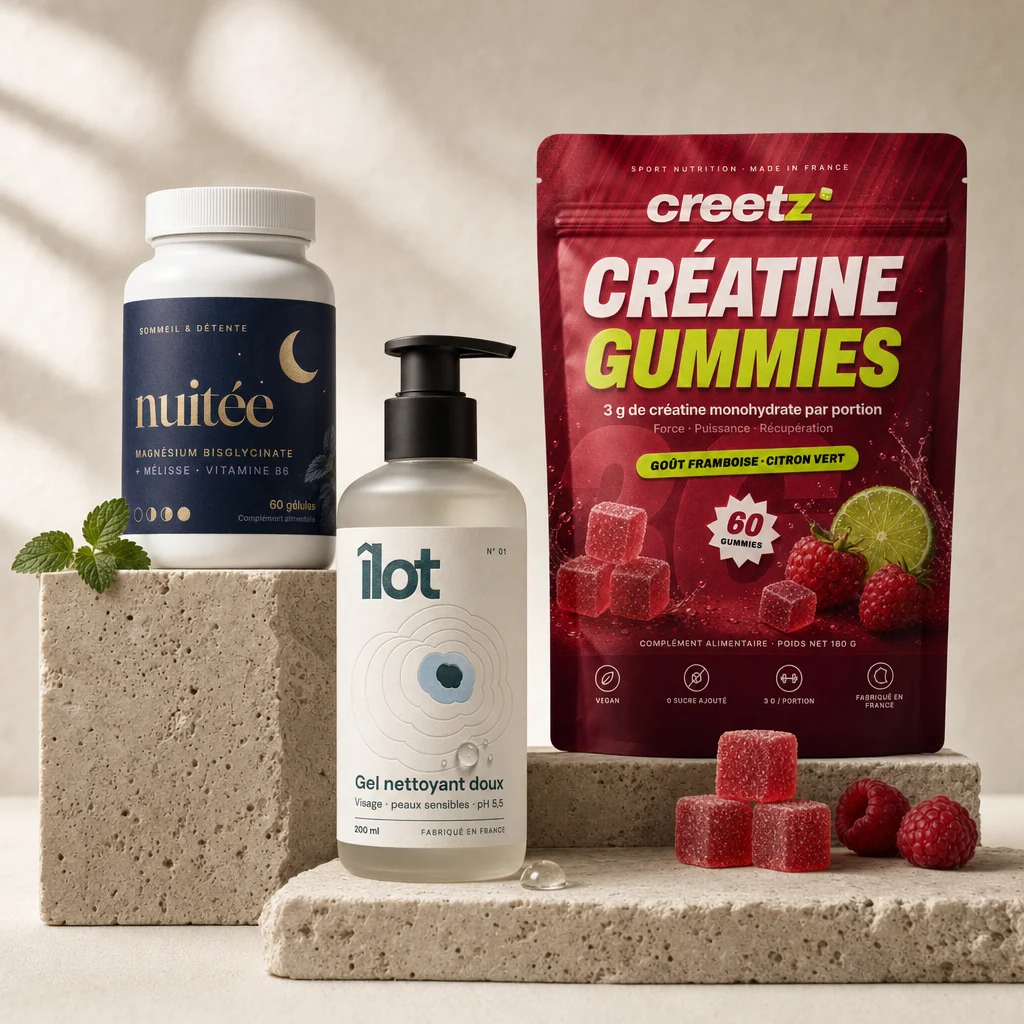
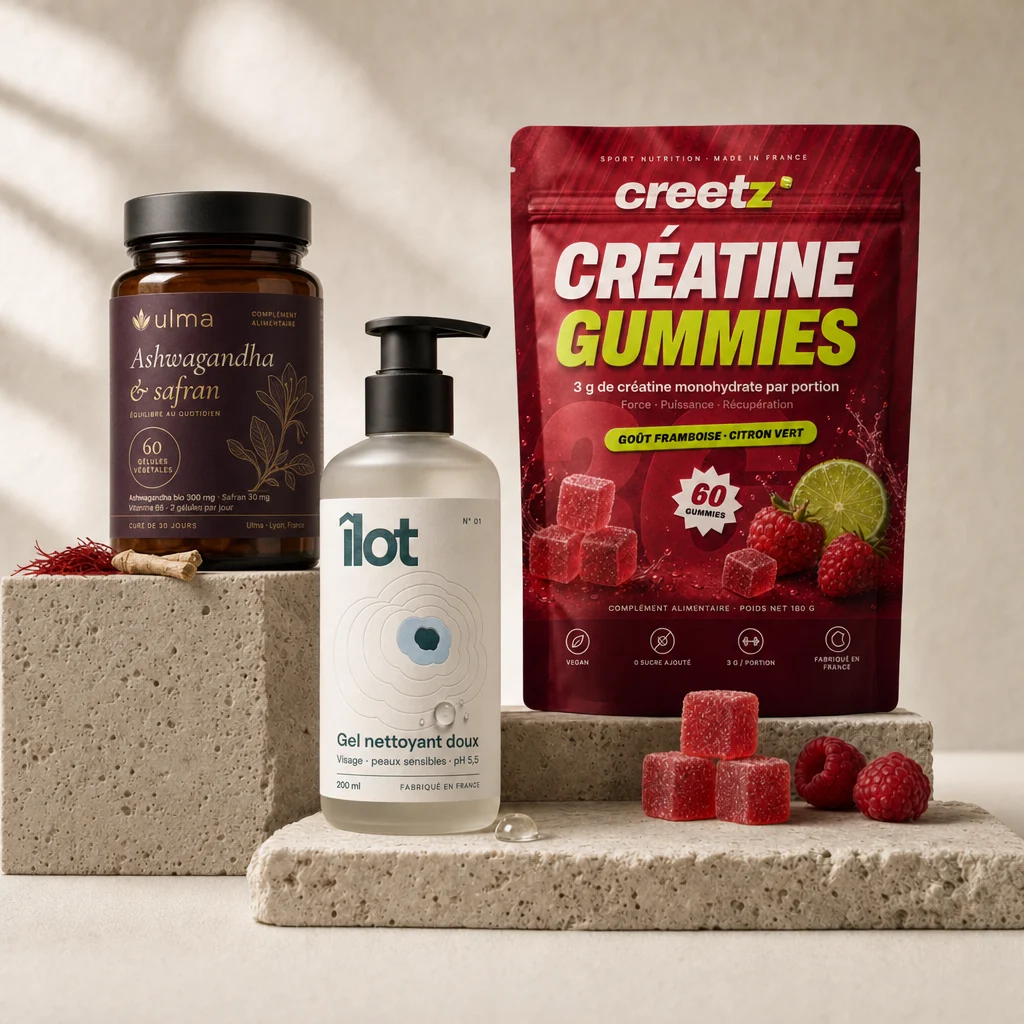
Nouvelles marques : Ulma, Orsa, Gaïo, Tamaro en 3D, Hivra, Holm, Malto, Kaïro
Chaque design n'apparaît plus qu'une fois sur le site (seule exception :
Creetz, dans le hero et la section précision).
- Hero : Ulma remplace Nuitée (déjà dans la tuile 04 des bénéfices).
- Carrousel : Orsa et Gaïo remplacent Siléa et Nocta, avec des personnes.
- Vitrine 3D : doypack Tamaro ; teinte du sachet réglable (data-teinte).
- Réalisations : Hivra, Holm, Malto et Kaïro en face et dos.
- Images remplacées retirées.

diff --git a/index.html b/index.html
@@ -22,7 +22,7 @@
   <link rel="preconnect" href="https://fonts.gstatic.com" crossorigin>
   <link href="https://fonts.googleapis.com/css2?family=Inter:opsz,wght@14..32,400..700&family=Archivo:ital,wdth,wght@0,62..125,500..900;1,62..125,500..900&display=swap" rel="stylesheet">
   <link rel="stylesheet" href="assets/css/site.css?v=202611281425">
-  <link rel="stylesheet" href="assets/css/accueil.css?v=202611281700">
+  <link rel="stylesheet" href="assets/css/accueil.css?v=202611281255">
   <link rel="stylesheet" href="assets/css/precision.css?v=202611281100">
   <script type="importmap">
     { "imports": {
@@ -70,8 +70,8 @@
     </div>
 
     <div class="scene">
-      <!-- Projets concept Lably (étiquettes dessinées en vectoriel, mise en scène générée). -->
-      <img class="scene-photo" src="assets/img/hero-marques.webp?v=202611271600" width="1024" height="1024" alt="Trois packagings conçus par le studio : le pilulier Nuitée, le flacon pompe Îlot et le sachet Creetz, posés sur des blocs de travertin avec des gummies, des framboises et de la mélisse" fetchpriority="high">
+      <!-- Projets du studio (étiquettes dessinées en vectoriel, mise en scène générée) : Ulma, Îlot, Creetz. -->
+      <img class="scene-photo" src="assets/img/hero-marques.webp?v=202611281200" width="1024" height="1024" alt="Trois packagings conçus par le studio : le pilulier ambré Ulma, le flacon pompe Îlot et le sachet Creetz, posés sur des blocs de travertin avec des filaments de safran, des gummies et des framboises" fetchpriority="high">
 
       <div class="bulle bulle-1">
         <div><strong>Fichier imprimeur ✓</strong><span>CMJN · fonds perdus 3 mm</span></div>
@@ -90,12 +90,12 @@
     <div class="carrousel-rail">
       <ul class="carrousel-liste">
         <li class="carte-projet"><img src="assets/img/carrousel/oktan.webp" width="507" height="760" alt="Pots de whey OKTAN sur un bloc de béton, avec des éclats de chocolat" decoding="async"><div class="carte-legende"><strong>OKTAN</strong><span>Compléments</span></div></li>
-        <li class="carte-projet"><img src="assets/img/carrousel/silea.webp" width="507" height="760" alt="Étuis du sérum Siléa et flacon compte-gouttes ambré" decoding="async"><div class="carte-legende"><strong>Siléa</strong><span>Cosmétiques</span></div></li>
-        <li class="carte-projet"><img src="assets/img/carrousel/nocta.webp" width="507" height="760" alt="Canettes de cold brew Nocta bleu nuit, illustration de lune" decoding="async"><div class="carte-legende"><strong>Nocta</strong><span>Café</span></div></li>
-        <li class="carte-projet"><img src="assets/img/carrousel/velia.webp" width="507" height="760" alt="Main qui tient l'étui de collagène Vélia, sticks posés sur une pierre claire" decoding="async"><div class="carte-legende"><strong>Vélia</strong><span>Compléments</span></div></li>
+        <li class="carte-projet"><img src="assets/img/carrousel/orsa.webp" width="507" height="760" alt="Une femme ouvre le pot de crème Orsa, une noisette de crème au bout du doigt" decoding="async"><div class="carte-legende"><strong>Orsa</strong><span>Cosmétiques</span></div></li>
         <li class="carte-projet"><img src="assets/img/carrousel/arde.webp?v=202611271600" width="507" height="760" alt="Bouteilles de sauce piquante Ardé sur une pierre, avec des piments fumés" decoding="async"><div class="carte-legende"><strong>Ardé</strong><span>Épicerie fine</span></div></li>
+        <li class="carte-projet"><img src="assets/img/carrousel/velia.webp" width="507" height="760" alt="Main qui tient l'étui de collagène Vélia, sticks posés sur une pierre claire" decoding="async"><div class="carte-legende"><strong>Vélia</strong><span>Compléments</span></div></li>
         <li class="carte-projet"><img src="assets/img/carrousel/ocelie.webp" width="507" height="760" alt="Flacons d'huile lavante Océlie sur une pierre, avec du sel marin" decoding="async"><div class="carte-legende"><strong>Océlie</strong><span>Cosmétiques</span></div></li>
         <li class="carte-projet"><img src="assets/img/carrousel/avena.webp" width="507" height="760" alt="Sachet de granola Avéna et un bol de granola aux noisettes" decoding="async"><div class="carte-legende"><strong>Avéna</strong><span>Épicerie</span></div></li>
+        <li class="carte-projet"><img src="assets/img/carrousel/gaio.webp" width="507" height="760" alt="Un homme au soleil tient une canette de kombucha Gaïo au gingembre et au yuzu" decoding="async"><div class="carte-legende"><strong>Gaïo</strong><span>Boissons</span></div></li>
         <li class="carte-projet"><img src="assets/img/carrousel/novae.webp?v=202611271600" width="507" height="760" alt="Tubes de compléments Novæ vert forêt, capsules dorées en suspension" decoding="async"><div class="carte-legende"><strong>Novæ</strong><span>Compléments</span></div></li>
         <li class="carte-projet"><img src="assets/img/carrousel/lunea.webp" width="507" height="760" alt="Boîtes d'infusion Lunéa et une tasse fumante" decoding="async"><div class="carte-legende"><strong>Lunéa</strong><span>Thé & infusions</span></div></li>
         <li class="carte-projet"><img src="assets/img/carrousel/yumo.webp" width="507" height="760" alt="Sachets de gummies Yumo roses, avec des fraises" decoding="async"><div class="carte-legende"><strong>Yumo</strong><span>Compléments</span></div></li>
@@ -602,11 +602,11 @@
       <h2>Le style Lably, <span class="accent">en vrai<span class="point-final">.</span></span></h2>
       <p class="chapo">Des projets dessinés par le studio pour vous montrer ce qu'on sait faire, secteur par secteur.</p>
     </div>
-    <!-- Projet concept vedette : Creetz, avec le sachet en 3D tournable -->
+    <!-- Projet vedette : Tamaro, avec le sachet en 3D tournable -->
     <div class="vitrine revele">
-      <div class="sachet-3d" data-avant="assets/img/creetz/face-avant.webp" data-dos="assets/img/creetz/face-dos.webp">
+      <div class="sachet-3d" data-avant="assets/img/tamaro/face-avant.webp" data-dos="assets/img/tamaro/face-dos.webp" data-teinte="#1F3FA8">
         <div class="sachet-scene">
-          <img class="sachet-secours" src="assets/img/creetz/hero.webp" width="1536" height="1024" alt="Le sachet Creetz Créatine Gummies entouré de gummies et de framboises" loading="lazy">
+          <img class="sachet-secours" src="assets/img/tamaro/photo.webp" width="1536" height="1024" alt="Le sachet de chips de lentilles corail Tamaro, avec un bol de chips au paprika fumé" loading="lazy">
         </div>
         <p class="sachet-aide"><span aria-hidden="true">↻</span> Glissez pour faire tourner</p>
         <div class="sachet-boutons">
@@ -616,7 +616,7 @@
         </div>
       </div>
       <div class="vitrine-texte">
-        <h3>Creetz, créatine gummies</h3>
+        <h3>Tamaro, chips de lentilles corail</h3>
         <p>Le client arrive avec son nom et son logo. On livre le sachet complet&nbsp;: une face avant qui se voit de loin, un dos avec toutes les mentions, les visuels 3D et le fichier prêt pour l'imprimeur.</p>
         <dl class="vitrine-faits">
           <div><dt>Le client a fourni</dt><dd>Nom, logo, textes</dd></div>
@@ -624,36 +624,36 @@
           <div><dt>Offre</dt><dd>Lancement · 490&nbsp;€</dd></div>
         </dl>
         <div class="vitrine-faces">
-          <button type="button" data-vue="face" aria-label="Montrer la face avant en 3D"><img src="assets/img/creetz/face-avant.webp" width="1024" height="1472" alt="" loading="lazy"><span>Face avant</span></button>
-          <button type="button" data-vue="dos" aria-label="Montrer le dos en 3D"><img src="assets/img/creetz/face-dos.webp" width="1024" height="1472" alt="" loading="lazy"><span>Dos</span></button>
+          <button type="button" data-vue="face" aria-label="Montrer la face avant en 3D"><img src="assets/img/tamaro/face-avant.webp" width="1024" height="1472" alt="" loading="lazy"><span>Face avant</span></button>
+          <button type="button" data-vue="dos" aria-label="Montrer le dos en 3D"><img src="assets/img/tamaro/face-dos.webp" width="1024" height="1472" alt="" loading="lazy"><span>Dos</span></button>
         </div>
       </div>
     </div>
-    <!-- Projets concept : faces et dos complets (atelier/etiquettes-v3/), photographiés sur leur contenant. -->
+    <!-- Projets du studio : faces et dos complets (atelier/etiquettes-v4/), photographiés sur leur contenant. -->
     <div class="realisations-grille etiquettes">
       <article class="projet revele">
         <div class="projet-visuel">
-          <img src="assets/img/etiquettes/silea.webp" width="1500" height="1000" alt="Deux étuis du sérum Siléa, l'un de face, l'autre de dos, avec le flacon posé devant" loading="lazy">
+          <img src="assets/img/etiquettes/hivra.webp" width="1500" height="1000" alt="Deux pots de miel Hivra, l'un de face, l'autre de dos, une main tient une cuillère à miel" loading="lazy">
         </div>
-        <div class="projet-legende"><strong>Siléa</strong><span>Cosmétiques · étui de sérum 30 ml</span></div>
+        <div class="projet-legende"><strong>Hivra</strong><span>Épicerie fine · pot de miel 250 g</span></div>
       </article>
       <article class="projet revele" data-delai="1">
         <div class="projet-visuel">
-          <img src="assets/img/etiquettes/oktan.webp" width="1500" height="1000" alt="Deux pots OKTAN, l'un montrant la face de l'étiquette, l'autre le dos avec le tableau nutritionnel" loading="lazy">
+          <img src="assets/img/etiquettes/holm.webp" width="1500" height="1000" alt="Deux tubes de crème mains Holm, l'un de face, l'autre de dos, avec une noisette de crème et un galet" loading="lazy">
         </div>
-        <div class="projet-legende"><strong>OKTAN</strong><span>Compléments · pot de whey 900 g</span></div>
+        <div class="projet-legende"><strong>Holm</strong><span>Cosmétiques · tube 75 ml</span></div>
       </article>
       <article class="projet revele">
         <div class="projet-visuel">
-          <img src="assets/img/etiquettes/arde.webp" width="1500" height="1000" alt="Deux bouteilles de sauce Ardé, l'une de face, l'autre de dos, avec un piment fumé" loading="lazy">
+          <img src="assets/img/etiquettes/malto.webp" width="1500" height="1000" alt="Deux bouteilles de bière Malto, l'une de face, l'autre de dos, à côté d'un verre d'IPA" loading="lazy">
         </div>
-        <div class="projet-legende"><strong>Ardé</strong><span>Épicerie fine · bouteille 150 ml</span></div>
+        <div class="projet-legende"><strong>Malto</strong><span>Boissons · bouteille 33 cl</span></div>
       </article>
       <article class="projet revele" data-delai="1">
         <div class="projet-visuel">
-          <img src="assets/img/etiquettes/avena.webp" width="1500" height="1000" alt="Deux sachets de granola Avéna, l'un de face, l'autre de dos, avec un bol de granola" loading="lazy">
+          <img src="assets/img/etiquettes/kairo.webp" width="1500" height="1000" alt="Deux boîtes de matcha Kaïro, l'une de face, l'autre de dos, avec un bol de matcha et un fouet en bambou" loading="lazy">
         </div>
-        <div class="projet-legende"><strong>Avéna</strong><span>Épicerie · doypack 400 g</span></div>
+        <div class="projet-legende"><strong>Kaïro</strong><span>Thé · boîte métal 30 g</span></div>
       </article>
     </div>
     <p class="realisations-note">Les projets de nos premiers clients rejoindront cette galerie, avec leur accord.</p>
@@ -800,6 +800,6 @@
 <script src="assets/js/site.js?v=202611272230"></script>
 <script src="assets/js/precision.js?v=202611281510"></script>
 <script src="assets/js/benefices.js?v=202611272230"></script>
-<script type="module" src="assets/js/sachet-3d.js?v=202611271435"></script>
+<script type="module" src="assets/js/sachet-3d.js?v=202611281230"></script>
 </body>
 </html>

diff --git a/assets/js/sachet-3d.js b/assets/js/sachet-3d.js
@@ -1,5 +1,5 @@
 /* Sachet doypack en 3D, tournable à la souris ou au doigt.
-   Utilisation : <div class="sachet-3d" data-avant="…webp" data-dos="…webp"> … </div> */
+   Utilisation : <div class="sachet-3d" data-avant="…webp" data-dos="…webp" data-teinte="#1F3FA8"> … </div> */
 import * as THREE from "three";
 import { OrbitControls } from "three/addons/controls/OrbitControls.js";
 import { RoomEnvironment } from "three/addons/environments/RoomEnvironment.js";
@@ -30,9 +30,14 @@ function demarrer(boite) {
   const RAYON = 7.4;
   camera.position.copy(CIBLE).add(new THREE.Vector3().setFromSpherical(new THREE.Spherical(RAYON, Math.PI / 2 - 0.1, 0.45)));
 
+  /* Teinte dominante du sachet (data-teinte) : fond du soufflet, reflet du sol et ombre portée */
+  const teinte = new THREE.Color(boite.dataset.teinte || "#9c0e33");
+  const teinteSombre = teinte.clone().multiplyScalar(0.62);
+  const ombreRVB = [teinte.r, teinte.g, teinte.b].map(function (c) { return Math.round(c * 255 * 0.32); }).join(",");
+
   const lumiere = new THREE.DirectionalLight(0xffffff, 0.9);
   lumiere.position.set(3, 5, 4);
-  scene.add(lumiere, new THREE.HemisphereLight(0xfff4ec, 0x6a3040, 0.25));
+  scene.add(lumiere, new THREE.HemisphereLight(0xfff4ec, teinteSombre, 0.25));
 
   /* ---------- Géométrie du sachet ---------- */
   const L = 1.6, H = 2.3, P = 0.3; // largeur, hauteur, demi-épaisseur max (unités = décimètres)
@@ -110,14 +115,14 @@ function demarrer(boite) {
   const sachet = new THREE.Group();
   sachet.add(new THREE.Mesh(panneau(1), matiere(boite.dataset.avant)));
   sachet.add(new THREE.Mesh(panneau(-1), matiere(boite.dataset.dos)));
-  sachet.add(new THREE.Mesh(fond(), new THREE.MeshStandardMaterial({ color: 0x9c0e33, roughness: 0.6, side: THREE.DoubleSide })));
+  sachet.add(new THREE.Mesh(fond(), new THREE.MeshStandardMaterial({ color: teinte, roughness: 0.6, side: THREE.DoubleSide })));
   scene.add(sachet);
 
   // Ombre douce au sol
   const co = document.createElement("canvas"); co.width = co.height = 256;
   const xo = co.getContext("2d");
   const gr = xo.createRadialGradient(128, 128, 0, 128, 128, 128);
-  gr.addColorStop(0, "rgba(60,10,25,.38)"); gr.addColorStop(1, "rgba(60,10,25,0)");
+  gr.addColorStop(0, "rgba(" + ombreRVB + ",.38)"); gr.addColorStop(1, "rgba(" + ombreRVB + ",0)");
   xo.fillStyle = gr; xo.fillRect(0, 0, 256, 256);
   const ombre = new THREE.Mesh(new THREE.PlaneGeometry(3.2, 1.6), new THREE.MeshBasicMaterial({ map: new THREE.CanvasTexture(co), transparent: true, depthWrite: false }));
   ombre.rotation.x = -Math.PI / 2; ombre.position.y = -0.005;

diff --git a/assets/css/accueil.css b/assets/css/accueil.css
@@ -56,7 +56,7 @@
 }
 .bulle strong { display: block; font-size: 12.5px; font-weight: 600; letter-spacing: -0.01em; }
 .bulle span { color: var(--gris); font-family: ui-monospace, "SF Mono", Menlo, monospace; font-size: 10.5px; }
-.bulle-1 { left: -14px; top: 7%; }
+.bulle-1 { left: -14px; top: 3.5%; }
 .bulle-2 { right: -10px; bottom: 6%; animation-delay: -3s; }
 @keyframes balance { 0%,100% { transform: rotate(-2.5deg); } 50% { transform: rotate(2deg); } }
 
@@ -331,7 +331,7 @@
 .realisations-grille { display: grid; grid-template-columns: repeat(3, minmax(0, 1fr)); gap: 20px; }
 /* ---------- Vitrine : projet concept en 3D ---------- */
 .vitrine { display: grid; grid-template-columns: minmax(0, 1.15fr) minmax(0, 1fr); background: var(--blanc); border-radius: var(--rayon-l); overflow: hidden; box-shadow: var(--ombre-douce); margin-bottom: 24px; }
-.sachet-3d { position: relative; background: radial-gradient(90% 70% at 50% 35%, #FFF1EC 0%, #F6DDD8 55%, #EFCFCB 100%); }
+.sachet-3d { position: relative; background: radial-gradient(90% 70% at 50% 35%, #F8F6F2 0%, #ECE7DF 55%, #E0D9CE 100%); }
 .sachet-scene { position: relative; aspect-ratio: 1 / 1; height: 100%; min-height: 460px; cursor: grab; touch-action: pan-y; }
 .sachet-scene:active { cursor: grabbing; }
 .sachet-toile { position: absolute; inset: 0; width: 100%; height: 100%; display: block; }
@@ -455,7 +455,7 @@
   .hero-grille, .studio-grille, .faq-grille { grid-template-columns: 1fr; gap: 48px; }
   .faq-grille .entete-section { position: static; }
   .scene { max-width: 560px; margin: 0 auto; width: 100%; }
-  .bulle-1 { left: 8px; }
+  .bulle-1 { left: 8px; top: 1.5%; }
   .bulle-2 { right: 8px; }
   .realisations-grille { grid-template-columns: 1fr 1fr; }
   .ticket { grid-template-columns: 1fr; }
